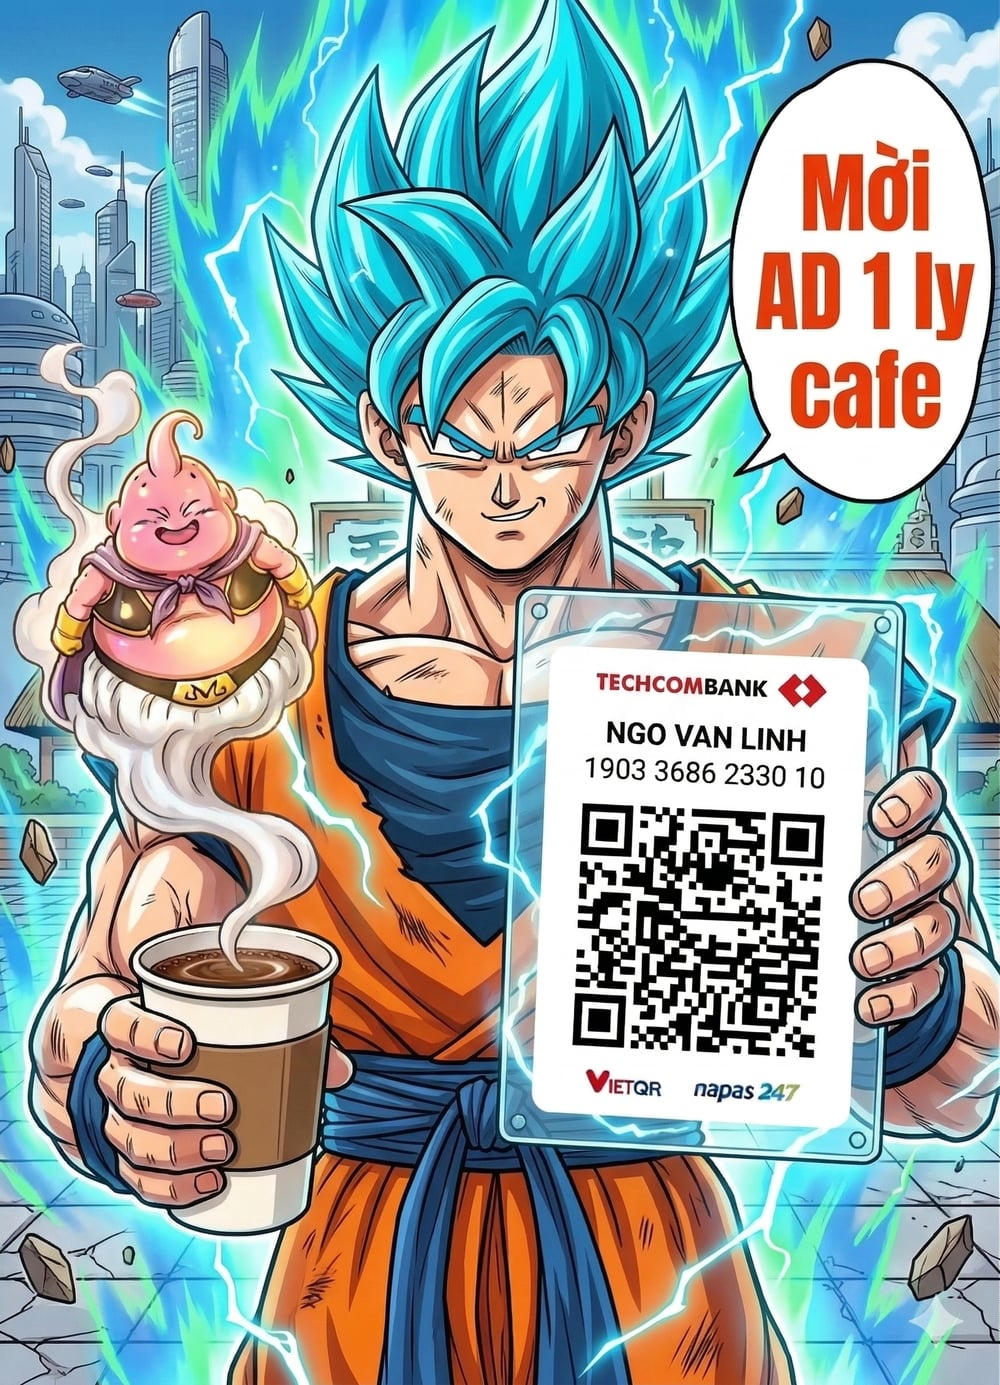
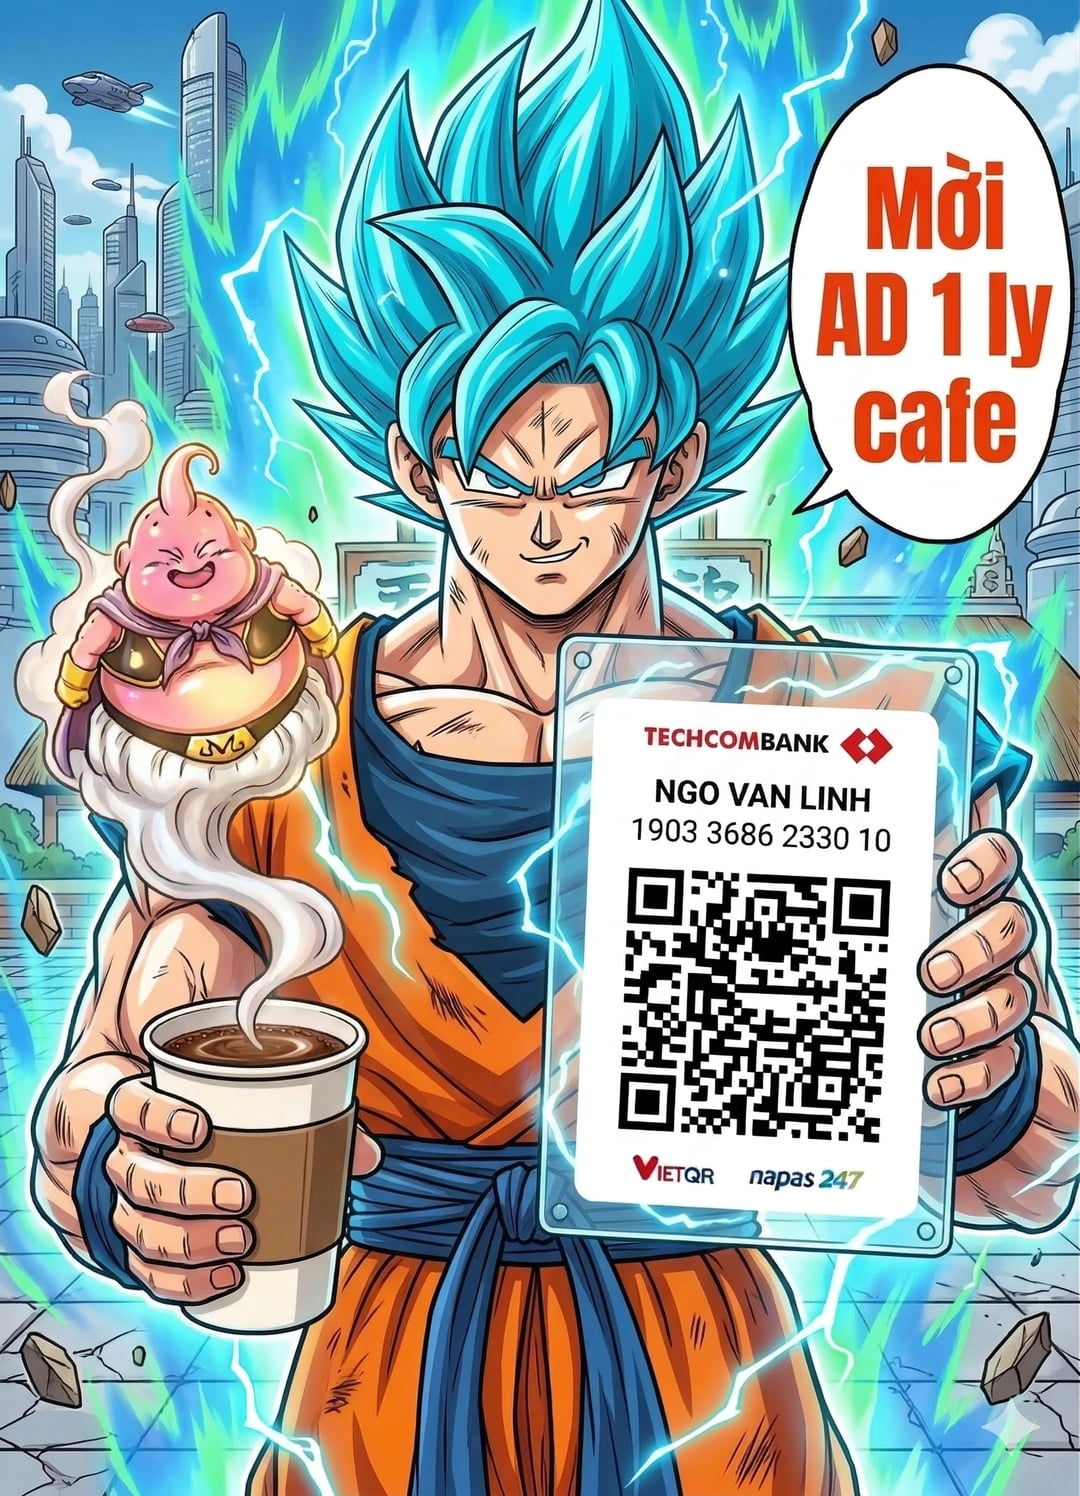
chore(release): release v3.0.47
- Add v3.0.47 release notes and update .gitignore to track docs/releases

- Bump package version to 3.0.47 in package.json and package-lock.json

- Add kindleunpack and wrapper script to electron-builder asarUnpack list

- Include extras v1.0.0 documentation

- Optimize QR donation image asset

Changed region(s): [[0.434, 0.3105, 0.465, 0.3415]]

diff --git a/docs/releases/v3.0.47.md b/docs/releases/v3.0.47.md
@@ -1,0 +1,80 @@
+# Release Notes — v3.0.47 (Sưu Tầm Ebook Truyện Tranh)
+
+## 📌 Nội dung Changelog cho App Update Modal (Tương thích `parseChangelog`)
+
+```text
+- [Quy trình Tự động] Hỗ trợ đầy đủ các chế độ đóng gói (gộp tập, tách chương, tách dung lượng MB, xoay trang đôi) cho các node xuất CBZ, PDF, EPUB
+- [Chuyển đổi & Sách điện tử] Sửa triệt để lỗi giải nén MOBI trên Windows và lỗi "Không có ảnh trong chương" khi chuyển đổi định dạng
+- [Công cụ Mở rộng] Khắc phục lỗi quyền Symlink EPERM trên Windows cho tài khoản người dùng thường không bật Developer Mode
+- [Thu thập Comix.to] Cập nhật thuật toán chữ ký API HMAC-SHA256, sửa lỗi mất ảnh bìa và hỗ trợ lấy trọn vẹn danh sách chương nhiều trang
+- [Giao diện & Tiện ích] Chuẩn hóa vị trí cụm nút hành động tab Đổi tên về trung tâm thanh công cụ đồng bộ với toàn bộ Tools Studio
+```
+
+---
+
+## 🚀 Chi Tiết Bản Phát Hành (GitHub Release Description)
+
+### 🌟 Điểm Nổi Bật (Highlights)
+
+Phiên bản **v3.0.47** tập trung nâng cấp mạnh mẽ tính linh hoạt của phân hệ **Quy trình tự động hóa (Visual Workflow Studio)**, mở rộng toàn diện các tùy chọn đóng gói và xuất sách điện tử (CBZ, PDF, EPUB). Bản cập nhật đồng thời giải quyết triệt để các bài toán tương thích hệ thống trên môi trường **Windows** (lỗi phân giải đường dẫn MOBI, quyền trích xuất symlink cho gói công cụ mở rộng), hoàn thiện thuật toán thu thập dữ liệu nguồn **Comix.to** (lấy đầy đủ danh sách chương và ảnh bìa chất lượng cao), cùng các tinh chỉnh giao diện chuẩn hóa Studio Layout.
+
+---
+
+### 1. Đóng Gói & Xuất Tệp Nâng Cao Trong Quy Trình Tự Động Hóa (Workflow Studio Export Nodes)
+
+- **Đa dạng chế độ đóng gói cho mọi node xuất tệp (`export_cbz`, `export_pdf`, `export_epub`)**:
+  - **Gộp một tập duy nhất (`singleVolume`)**: Đóng gói toàn bộ các chương của bộ truyện vào một tệp sách duy nhất (mặc định).
+  - **Tách riêng từng chương (`chapterSplit`)**: Tự động xuất mỗi chương truyện thành một tệp sách điện tử độc lập.
+  - **Chia tách theo dung lượng (`sizeSplit`)**: Tự động tính toán và phân bổ các chương vào các tập sách sao cho dung lượng mỗi tệp không vượt quá giới hạn thiết lập (`maxMbPerFile`, ví dụ: 200MB, 500MB...).
+- **Tùy chọn xoay và tối ưu trang đôi (`rotateDoublePage`)**:
+  - Hỗ trợ tùy chọn tự động phát hiện và xử lý ảnh trang đôi (ảnh panorama/ngang) trong chuỗi đóng gói xuất bản.
+- **Tự động quét danh sách chương (Auto Chapter Discovery Fallback)**:
+  - Nếu đầu vào `chapter_list` không được truyền trực tiếp từ các node crawler hoặc dọn dẹp trước đó, hệ thống sẽ tự động quét cấu trúc thư mục ảnh nguồn (`images_dir`) để nhận diện danh sách chương một cách thông minh, đảm bảo quy trình chạy trơn tru mà không bị đứt đoạn.
+- **Nâng cấp thanh thuộc tính (Workflow Inspector)**:
+  - Bổ sung đầy đủ các bộ điều khiển cấu hình: chế độ đóng gói, dung lượng tối đa MB, kích thước khổ giấy PDF (`pdfPageSize`: Fit Image, A4, B5...), chất lượng nén ảnh (`imageQuality`, `pdfQuality`), và các ghi chú hướng dẫn chi tiết (tooltips) tuân thủ quy chuẩn thiết kế hiện đại.
+
+---
+
+### 2. Khắc Phục Triệt Để Lỗi Đóng Gói & Chuyển Đổi Sách Điện Tử (MOBI / EPUB / PDF Packaging & Conversion)
+
+- **Khắc phục lỗi giải nén MOBI trên Windows (`The system cannot find the path specified`)**:
+  - Chuyển đổi phương thức gọi binary `kindleunpack` từ chuỗi lệnh `cmd.exe` sang `execFile` CreateProcessW trực tiếp, loại bỏ hoàn toàn các lỗi thoát ký tự hoặc đường dẫn có khoảng trắng/tiếng Việt.
+  - Bổ sung `kindleunpack.exe` và các script wrapper vào danh sách `asarUnpack` của `electron-builder`.
+  - Cơ chế tự phục hồi dự phòng (Self-healing Fallback): Tự động trích xuất binary thực thi ra thư mục tạm hệ thống nếu ứng dụng đang chạy bên trong gói nén asar.
+- **Khắc phục lỗi "Không có ảnh trong chương" khi đóng gói & chuyển đổi**:
+  - Tự động làm phẳng cấu trúc thư mục ảnh giải nén (flatten deep folders) vào thư mục gốc chương trong `prepareChaptersForPackaging`.
+  - Bổ sung cơ chế quét ảnh đệ quy dự phòng cho cả bộ xuất PDF (`exportPdf.js`) và EPUB (`exportEpub.js`), đồng bộ với bộ xuất CBZ.
+  - Khử trùng lặp ảnh thô trong thư mục `OEBPS/Images` đối với truyện tranh MOBI bằng cách ưu tiên thứ tự trang spine chuẩn trong tệp OPF (`_epub_pages`).
+
+---
+
+### 3. Tương Thích Tuyệt Đối Cho Gói Công Cụ Mở Rộng Trên Windows (Windows EPERM Symlink Fallback)
+
+- **Xử lý triệt để lỗi phân quyền `EPERM` khi giải nén Extras**:
+  - Khắc phục lỗi `operation not permitted, symlink` xảy ra trên Windows khi giải nén các công cụ AI và xử lý ảnh (Waifu2x, RealESRGAN, ImageMagick...) đối với người dùng tài khoản tiêu chuẩn không kích hoạt Developer Mode.
+  - Tự động bỏ qua việc tạo `symlink` native trên Windows; thay thế bằng cơ chế copy tệp trực tiếp và tạo `directory junction` an toàn trong thư mục AppData của người dùng.
+  - Làm sạch chuỗi đích (loại bỏ ký tự null byte và khoảng trắng dư thừa), xóa sạch tệp cũ trước khi copy để ngăn chặn lỗi xung đột `EEXIST`.
+  - Tích hợp hàm giải nén an toàn `safeExtractZip` trong `BinaryDownloader` và chuẩn hóa phân cách đường dẫn khi đóng gói binary.
+
+---
+
+### 4. Nâng Cấp Bộ Thu Thập & Đầu Đọc Nguồn Comix.to (Comix Connector Fixes)
+
+- **Cập nhật thuật toán chữ ký API HMAC-SHA256**:
+  - Nâng cấp thuật toán tạo mã xác thực API trực tiếp sang chuẩn mới (`qbk` token, key material 1088 bytes) trong module độc lập `comixCryptoCore.js`.
+- **Khắc phục lỗi mất ảnh bìa truyện**:
+  - Hỗ trợ trích xuất poster bìa truyện từ dữ liệu khởi tạo JSON `initial-data` của kiến trúc giao diện mới (Vite SPA) trên Comix.to.
+  - Tự động giải quyết đường dẫn tương đối `/images/covers/...` thành URL tuyệt đối chuẩn xác.
+- **Hỗ trợ thu thập trọn vẹn danh sách chương nhiều trang (Multi-page Chapter Pagination)**:
+  - Khắc phục tình trạng trước đây chỉ tải được các chương ở trang 1 danh sách.
+  - Tích hợp hàm phân trang API có ký xác thực ngầm trực tiếp trong phiên duyệt web (`COMIX_SCRAPE_CHAPTERS_SCRIPT`), quét và nạp toàn bộ danh sách chương mà không kích hoạt cơ chế chống bot Untrusted Clicks của Cloudflare.
+
+---
+
+### 5. Chuẩn Hóa Giao Diện & Trải Nghiệm Studio (UI & Studio Layout Standards)
+
+- **Căn chỉnh vị trí cụm nút hành động tab Đổi tên (`RenameTab`)**:
+  - Chuyển cụm nút hành động chính ("Áp dụng", "Dừng", "Hoàn tác") từ thanh bên phải sang vị trí trung tâm thanh công cụ ([`ToolsStudioCenterSlot`](file:///Users/admin/Documents/Projects/crawler_pc/src/features/export/rename/RenameTab.jsx#L995)), đồng bộ hoàn hảo với bố cục chuẩn của các tab Quét trùng ảnh ("Quét trùng") và Xử lý ảnh ("Bắt đầu").
+- **Đảm bảo tính đồng nhất giao diện**:
+  - Tuân thủ nghiêm ngặt quy chuẩn thiết kế không gạch chân (No-Underline Rule), hỗ trợ đầy đủ thanh cuộn mảnh (Slim Scrollbars) và tương thích chuyển đổi 12 bộ giao diện Light/Dark mode.
+

diff --git a/docs/releases/extras-v1.0.0.md b/docs/releases/extras-v1.0.0.md
@@ -1,0 +1,44 @@
+# Manga Crawler Extras v1.0.0 — Gói Bổ Trợ AI Phục Chế & Upscale
+
+Gói tài nguyên mở rộng chính thức dành cho ứng dụng **Manga Crawler (Sưu Tầm Ebook Truyện Tranh)**. Gói này cung cấp các mô hình trí tuệ nhân tạo (AI) và công cụ tăng độ phân giải hình ảnh bằng GPU Vulkan/Metal để phục chế truyện tranh cũ mờ nhòe, kèm môi trường thực thi dịch thuật offline.
+
+---
+
+## 📦 Hướng Dẫn Chọn File Tải Theo Thiết Bị
+
+Vui lòng chọn **đúng 1 file zip** tương ứng với hệ điều hành và phần cứng máy tính của bạn:
+
+| Tên Tệp Zip | Hệ Điều Hành & Phần Cứng Tương Thích | Dung Lượng |
+| :--- | :--- | :--- |
+| **`manga-crawler-extras-win-x64.zip`** | **Windows 10 / 11 64-bit**<br>• PC, máy bàn hoặc laptop chạy CPU Intel hoặc AMD.<br>• Hỗ trợ card đồ họa NVIDIA, AMD Radeon hoặc Intel HD/UHD/Iris Graphics. | ~264 MB |
+| **`manga-crawler-extras-mac-arm64.zip`** | **macOS Apple Silicon (Chip M)**<br>• MacBook Pro, MacBook Air, Mac mini, Mac Studio, iMac chạy chip **M1, M2, M3, M4** (bao gồm bản Pro / Max / Ultra). | ~251 MB |
+| **`manga-crawler-extras-mac-x64.zip`** | **macOS Intel**<br>• Các đời máy Mac sản xuất từ năm **2020 trở về trước** chạy chip xử lý của **Intel** (Core i5, i7, i9). | ~238 MB |
+
+---
+
+## 🌟 Các Thành Phần & Tính Năng Nổi Bật
+
+### 1. Bộ 3 Mô Hình AI MangaJaNai (Mới Nhất)
+Được huấn luyện chuyên sâu cho nét vẽ truyện tranh và truyện màu:
+- **`mangajanai-2x-1600p`** *(Khuyên Dùng Cho Truyện Tranh)*: Khử nhiễu nén JPEG, làm sắc nét đường line art và bảo toàn hạt tram (screentone) của các bản scan truyện cũ, nâng độ phân giải lên chuẩn đọc tối ưu 1600p.
+- **`mangajanai-4x-1600p`**: Tái tạo lại chi tiết nét vẽ sắc sảo dành cho các trang truyện scan độ phân giải cực thấp hoặc mờ nhòe nghiêm trọng.
+- **`illustrationjanai-4x`**: Chuyên phục chế tranh vẽ màu, ảnh bìa volume, artbook và trang màu đầu chương.
+
+### 2. Bộ Engine C++ NCNN Tối Ưu Bằng GPU (Vulkan / Metal)
+- Tích hợp sẵn các engine nhị phân: **Real-ESRGAN**, **Waifu2x** và **Real-CUGAN**.
+- Chạy trực tiếp và độc lập 100% bằng GPU, **hoàn toàn không cần cài đặt Python, PyTorch hay CUDA phức tạp**.
+
+### 3. Môi Trường Dịch Thuật Offline (ONNX Runtime)
+- Cung cấp sẵn runtime native để chạy tính năng dịch bong bóng thoại truyện tranh bằng AI mà không cần gửi dữ liệu lên máy chủ bên ngoài.
+
+---
+
+## 💡 Cách Sử Dụng Trong Ứng Dụng Manga Crawler
+
+### Cách 1: Tải Tự Động (Khuyên Dùng — 1 Click)
+- Mở ứng dụng **Manga Crawler** > Vào mục **Xuất file** > Tab **Upscale (Nâng cấp ảnh AI)**.
+- Khi có thông báo chưa có gói tài nguyên, bạn chỉ cần bấm nút **"Cài đặt tự động"** (hoặc vào tab **Cài đặt** > mục **Gói tài nguyên mở rộng**). Ứng dụng sẽ tự động tải file zip phù hợp từ trang Release này và tự động giải nén.
+
+### Cách 2: Cài Đặt Thủ Công Từ Tệp Zip
+- Tải file `.zip` phù hợp với máy tính của bạn ở danh sách đính kèm bên dưới.
+- Trong ứng dụng Manga Crawler, bấm **"Chọn file .zip có sẵn"** và chọn tệp vừa tải về. Ứng dụng sẽ tự động thiết lập và sẵn sàng sử dụng ngay lập tức.
